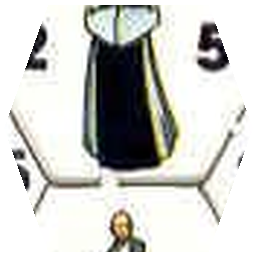
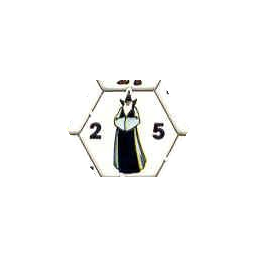
Rebuild counter art and map terrain from board scan

diff --git a/scripts/build_terrain_map.py b/scripts/build_terrain_map.py
@@ -1,0 +1,74 @@
+#!/usr/bin/env python3
+"""Sample Mappa 2.png at every engine hex and write the derived terrain map."""
+
+import json
+import math
+from pathlib import Path
+from PIL import Image
+
+
+ROOT = Path(__file__).resolve().parent.parent
+IMAGE = Image.open(ROOT / "Mappa 2.png").convert("RGB")
+COLS, ROWS = 67, 52
+RADIUS = 35.5645
+DX, DY = math.sqrt(3.0) * RADIUS, 1.5 * RADIUS
+ORIGIN_X, ORIGIN_Y = 24.6, -13.59
+
+
+def centre(col: int, row: int) -> tuple[float, float]:
+    return ORIGIN_X + col * DX + (DX / 2 if row & 1 else 0), ORIGIN_Y + row * DY
+
+
+def neighbours(col: int, row: int):
+    diagonal = ((-1, -1), (0, -1), (-1, 1), (0, 1)) if not row & 1 else ((0, -1), (1, -1), (0, 1), (1, 1))
+    for dc, dr in ((-1, 0), (1, 0), *diagonal):
+        if 0 <= col + dc < COLS and 0 <= row + dr < ROWS:
+            yield col + dc, row + dr
+
+
+raw: dict[tuple[int, int], str] = {}
+for row in range(ROWS):
+    for col in range(COLS):
+        x, y = centre(col, row)
+        if not (0 <= x < IMAGE.width and 0 <= y < IMAGE.height):
+            raw[col, row] = "void"
+            continue
+        pixels = [
+            IMAGE.getpixel((px, py))
+            for py in range(max(0, int(y - 25)), min(IMAGE.height, int(y + 26)), 3)
+            for px in range(max(0, int(x - 25)), min(IMAGE.width, int(x + 26)), 3)
+            if (px - x) ** 2 + (py - y) ** 2 < 625
+        ]
+        total = len(pixels)
+        dark = sum(max(rgb) < 85 for rgb in pixels) / total
+        sea = sum(b > r * 1.08 and (b > g * .96 or g > r * 1.12) and b > 90 for r, g, b in pixels) / total
+        forest = sum(g > r * 1.10 and g > b * .80 and g < 155 and r < 120 for r, g, b in pixels) / total
+        red_rock = sum(r > g * 1.18 and r > b * 1.15 and 45 < r < 190 for r, g, b in pixels) / total
+        grey_rock = sum(45 < r < 145 and abs(r - g) < 22 and abs(g - b) < 30 for r, g, b in pixels) / total
+        brightness = sum(sum(rgb) / 3 for rgb in pixels) / total
+        if dark > .42:
+            raw[col, row] = "void"
+        elif sea > .28:
+            raw[col, row] = "sea"
+        elif forest > .075:
+            raw[col, row] = "forest"
+        elif red_rock > .13 or (grey_rock > .34 and brightness < 150):
+            raw[col, row] = "mountain"
+        else:
+            raw[col, row] = "plain"
+
+# Artwork and vortices can satisfy a colour test in one isolated cell. Real
+# woods and mountain chains continue into at least one neighbouring hex.
+for position, kind in list(raw.items()):
+    if kind in ("forest", "mountain") and not any(raw.get(other) == kind for other in neighbours(*position)):
+        raw[position] = "plain"
+
+result = {kind: [] for kind in ("sea", "forest", "mountain", "void")}
+for (col, row), kind in raw.items():
+    if kind in result:
+        result[kind].append([col, row])
+
+output = ROOT / "assets" / "data" / "terrain_map.json"
+output.parent.mkdir(parents=True, exist_ok=True)
+output.write_text(json.dumps(result, separators=(",", ":")), encoding="utf-8")
+print({kind: len(cells) for kind, cells in result.items()})

diff --git a/scripts/extract_counter_art.py b/scripts/extract_counter_art.py
@@ -1,0 +1,56 @@
+#!/usr/bin/env python3
+"""Rebuild the playable counter faces from the four original counter sheets."""
+
+from pathlib import Path
+from PIL import Image, ImageDraw
+
+
+ROOT = Path(__file__).resolve().parent.parent
+SIZE = 256
+
+# Pixel centres measured on the original scans.  A complete counter is about
+# 120 x 96 pixels; choosing isolated examples avoids artwork from neighbours.
+COUNTERS = {
+    "alati": {
+        "source": "zargos1.jpg",
+        "signore": (690, 147), "falco": (842, 235),
+        "fantarcere": (690, 411), "fante": (614, 543), "citta": (690, 851),
+    },
+    "cavalieri": {
+        "source": "zargos2.jpg",
+        "signore": (762, 111), "mago": (839, 239),
+        "fantarcere": (762, 289), "fante": (1068, 378), "citta": (685, 850),
+    },
+    "draghi": {
+        "source": "zargos3.jpg",
+        "signore": (530, 279), "serpente": (530, 369),
+        "lanciafiamme": (530, 459), "fante": (839, 549), "citta": (762, 954),
+    },
+    "monaci": {
+        "source": "zargos4.jpg",
+        "signore": (535, 143), "illusionista": (690, 323),
+        "cavaliere": (535, 413), "fante": (767, 548), "citta": (535, 855),
+    },
+}
+
+
+def extract(source: Image.Image, centre: tuple[int, int]) -> Image.Image:
+    cx, cy = centre
+    crop = source.crop((cx - 62, cy - 49, cx + 62, cy + 49)).convert("RGBA")
+    mask = Image.new("L", crop.size, 0)
+    # Flat-top hexagon; stay just outside the original outline so no edge is lost.
+    ImageDraw.Draw(mask).polygon([(30, 1), (94, 1), (123, 49), (94, 97), (30, 97), (0, 49)], fill=255)
+    crop.putalpha(mask)
+    crop.thumbnail((246, 220), Image.Resampling.LANCZOS)
+    result = Image.new("RGBA", (SIZE, SIZE), (0, 0, 0, 0))
+    result.alpha_composite(crop, ((SIZE - crop.width) // 2, (SIZE - crop.height) // 2))
+    return result
+
+
+for faction, entries in COUNTERS.items():
+    source = Image.open(ROOT / entries["source"])
+    output_dir = ROOT / "assets" / "units" / faction
+    for name, centre in entries.items():
+        if name == "source":
+            continue
+        extract(source, centre).save(output_dir / f"{name}.png", optimize=True)

diff --git a/README.md b/README.md
@@ -51,6 +51,8 @@ Il repository contiene per ora il materiale di riferimento del gioco base:
 - distanza, movimento, zone d'influenza, assedi e ritirate coerenti anche oltre bordo;
 - orientamento corretto delle annotazioni di boschi, montagne e gorghi magici sui quattro continenti;
 - reticolo di calibrazione attivabile con sovrapposizione cromatica dei terreni interpretati dal motore;
+- mappa terreno 67 × 52 ricavata dai centri di `Mappa 2.png`, con mare, boschi, montagne e vuoto cosmico; ponti di nuvole e vortici mantengono la verifica manuale prioritaria;
+- pedine ritagliate nuovamente dalle quattro tavole originali, centrate e isolate dall'esagono adiacente;
 - ispettore esagono al passaggio del mouse con coordinate, continente, terreno, costi, difesa, schierabilità e occupante;
 - bonus difensivi del terreno applicati al combattimento;
 - determinazione del vincitore in base alle città controllate al 25º mese;
